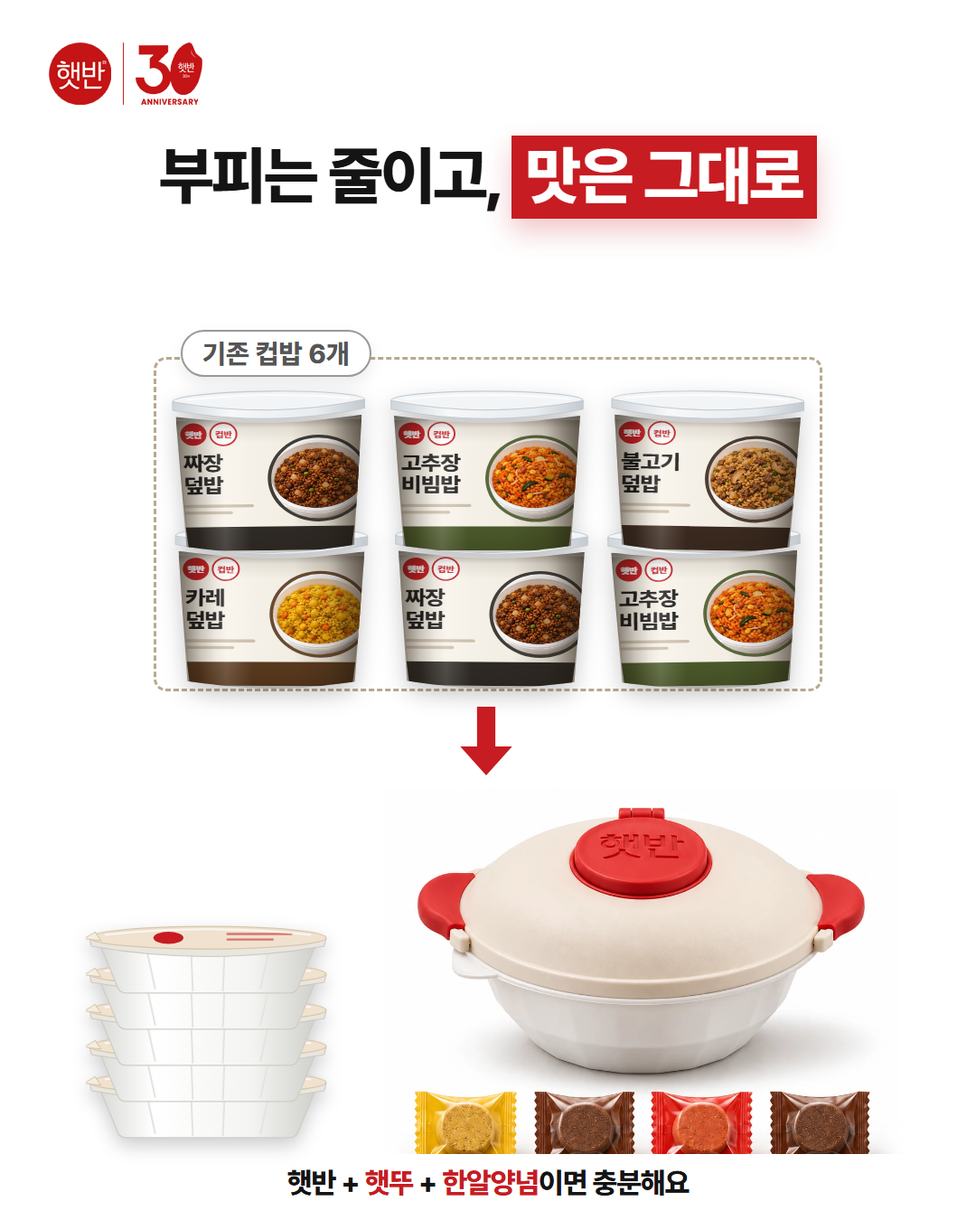
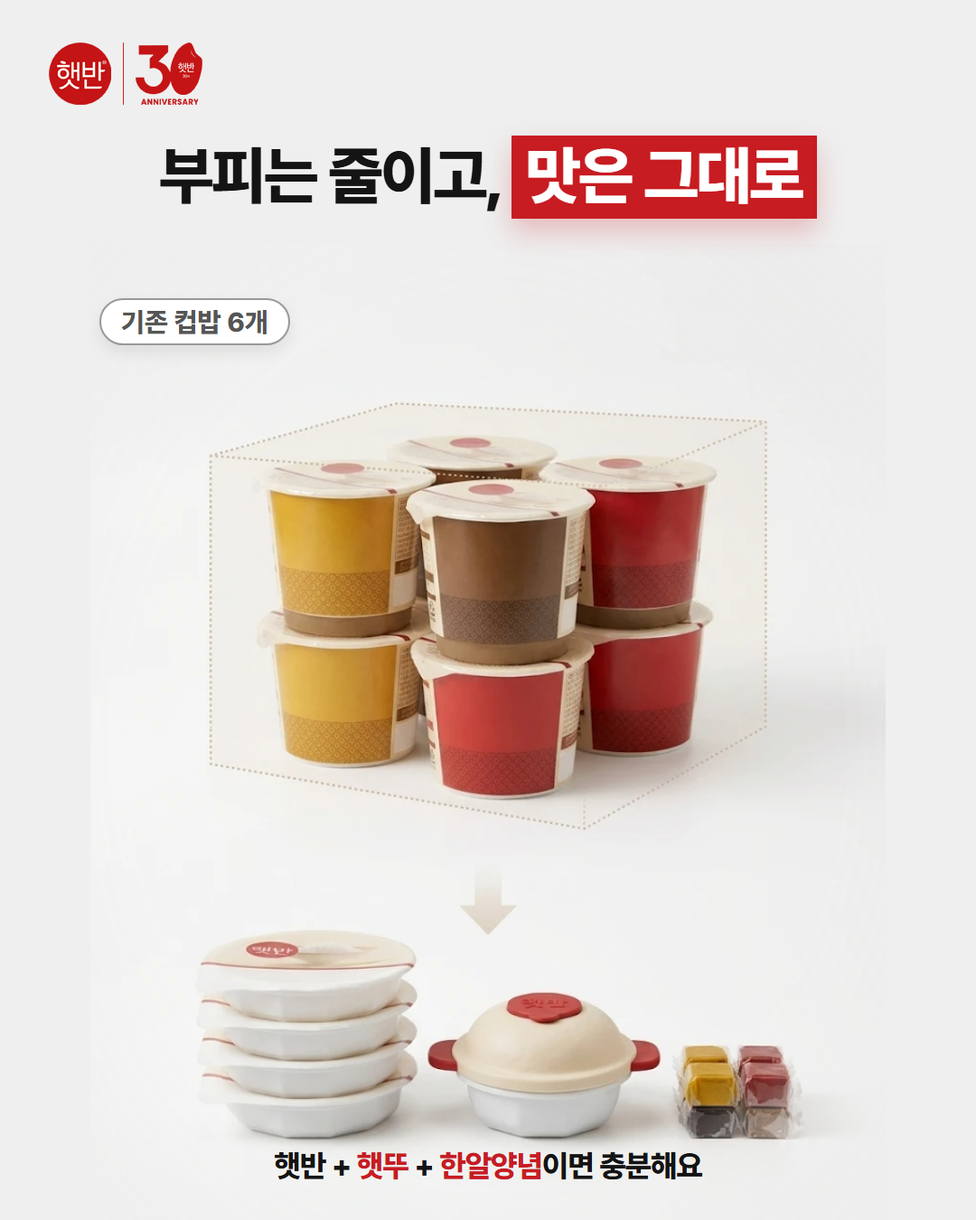
Auto-sync: 2026-11-13 22:43:28

diff --git a/햇반공모전/캐러셀_슬라이드.html b/햇반공모전/캐러셀_슬라이드.html
@@ -188,20 +188,14 @@ body{background:#ddd;font-family:Pretendard,"Malgun Gothic",sans-serif;color:var
 </section>
 
 <!-- 09 부피 -->
-<section class="slide" id="s09" style="background:#fff">
+<section class="slide" id="s09" style="background:#efefef">
+  <img src="출품1_이미지/P7.webp" style="position:absolute;left:100px;top:270px;width:880px;-webkit-mask-image:radial-gradient(ellipse 72% 72% at 50% 50%,#000 62%,transparent 100%);mask-image:radial-gradient(ellipse 72% 72% at 50% 50%,#000 62%,transparent 100%)">
   <div class="logo"><img src="참고이미지/햇반30로고.png"></div>
   <div class="center" style="top:150px">
     <div class="h-bold" style="font-size:70px">부피는 줄이고, <span class="box" style="font-size:70px;padding:2px 16px 6px">맛은 그대로</span></div>
   </div>
-  <div class="pill" style="left:200px;top:365px;color:#555;border-color:#999;z-index:2">기존 컵밥 6개</div>
-  <div style="position:absolute;left:170px;top:395px;width:740px;height:370px;border:3px dashed #b9a98f;border-radius:14px"></div>
-  <div style="position:absolute;inset:0;filter:drop-shadow(0 10px 12px rgba(0,0,0,.22))"><div style="position:absolute;left:0;top:0;transform:rotate(0.2deg);transform-origin:300px 742px"><svg style="position:absolute;left:191px;top:580px;width:218px;height:38px" viewBox="0 0 240 40" preserveAspectRatio="none"><defs><linearGradient id="lr9" x1="0" x2="1"><stop offset="0" stop-color="#cfd5da"/><stop offset=".3" stop-color="#f6f8f9"/><stop offset=".75" stop-color="#e8ecef"/><stop offset="1" stop-color="#c3cad0"/></linearGradient></defs><ellipse cx="120" cy="14" rx="117" ry="11" fill="rgba(242,245,247,.96)" stroke="#c4ccd2" stroke-width="1.2"/><path d="M3 14 Q120 36 237 14 L237 24 Q120 46 3 24 Z" fill="url(#lr9)" stroke="#bfc7cd" stroke-width="1"/><path d="M20 12 Q120 3 220 12" fill="none" stroke="#fff" stroke-width="2" opacity=".8"/></svg><div style="position:absolute;left:197px;top:610px;width:206px;height:152px;clip-path:polygon(0.0% 0.0px,5.0% 1.3px,10.0% 2.5px,15.0% 3.6px,20.0% 4.7px,25.0% 5.7px,30.0% 6.5px,35.0% 7.1px,40.0% 7.6px,45.0% 7.9px,50.0% 8.0px,55.0% 7.9px,60.0% 7.6px,65.0% 7.1px,70.0% 6.5px,75.0% 5.7px,80.0% 4.7px,85.0% 3.6px,90.0% 2.5px,95.0% 1.3px,100.0% 0.0px,95.0% 144.0px,90.5% 145.3px,86.0% 146.5px,81.5% 147.6px,77.0% 148.7px,72.5% 149.7px,68.0% 150.5px,63.5% 151.1px,59.0% 151.6px,54.5% 151.9px,50.0% 152.0px,45.5% 151.9px,41.0% 151.6px,36.5% 151.1px,32.0% 150.5px,27.5% 149.7px,23.0% 148.7px,18.5% 147.6px,14.0% 146.5px,9.5% 145.3px,5.0% 144.0px)"><div style="position:absolute;left:0;top:4.8px;width:100%;height:144px"><svg style="position:absolute;inset:0;width:100%;height:100%" viewBox="14 44 212 174" preserveAspectRatio="none"><defs><clipPath id="n9_1_k2013"><circle cx="176" cy="122" r="54"/></clipPath><linearGradient id="n9_1_gk2013" x1="0" x2="1"><stop offset="0" stop-color="#e3dbcc"/><stop offset=".22" stop-color="#f8f4ec"/><stop offset=".78" stop-color="#f1ebe0"/><stop offset="1" stop-color="#d6ccbb"/></linearGradient><linearGradient id="n9_1_sk2013" x1="0" x2="1"><stop offset="0" stop-color="rgba(0,0,0,.18)"/><stop offset=".2" stop-color="rgba(0,0,0,0)"/><stop offset=".8" stop-color="rgba(0,0,0,0)"/><stop offset="1" stop-color="rgba(0,0,0,.22)"/></linearGradient></defs><path d="M12 38 L228 38 L213 212 Q212 218 205 218 L35 218 Q28 218 27 212 Z" fill="url(#n9_1_gk2013)" stroke="#cfc3ae" stroke-width="1.5"/><path d="M24 186 L216 186 L213 212 Q212 218 205 218 L35 218 Q28 218 27 212 Z" fill="#5a3a1e"/><circle cx="176" cy="122" r="58" fill="#5a3a1e" opacity=".9"/><image href="출품1_이미지/P6.webp" x="101.9" y="-82.0" width="336.6" height="420.6" clip-path="url(#n9_1_k2013)"/><circle cx="34" cy="62" r="15" fill="#c71c22"/><text x="34" y="66.5" text-anchor="middle" font-size="11" font-weight="800" fill="#fff">햇반</text><circle cx="68" cy="62" r="15" fill="#fff" stroke="#c71c22" stroke-width="2"/><text x="68" y="66.5" text-anchor="middle" font-size="11" font-weight="800" fill="#c71c22">컵반</text><text x="22" y="110" font-size="27" font-weight="800" fill="#1d1d1d" letter-spacing="-1">카레</text><text x="22" y="140" font-size="27" font-weight="800" fill="#1d1d1d" letter-spacing="-1">덮밥</text><rect x="22" y="156" width="80" height="4" rx="2" fill="#cbbfab"/><rect x="22" y="165" width="56" height="4" rx="2" fill="#cbbfab"/><path d="M12 38 L228 38 L213 212 Q212 218 205 218 L35 218 Q28 218 27 212 Z" fill="url(#n9_1_sk2013)"/></svg></div><div style="position:absolute;inset:0;background:linear-gradient(90deg,rgba(35,25,15,.45) 0,rgba(35,25,15,.12) 12%,rgba(255,252,245,.18) 26%,rgba(255,252,245,0) 40%,rgba(35,25,15,0) 62%,rgba(35,25,15,.18) 84%,rgba(35,25,15,.5) 100%)"></div><div style="position:absolute;inset:0;background:linear-gradient(180deg,rgba(30,20,10,.4) 0,rgba(30,20,10,.08) 9%,rgba(0,0,0,0) 20%,rgba(0,0,0,0) 80%,rgba(30,20,10,.2) 100%)"></div></div></div><div style="position:absolute;left:0;top:0;transform:rotate(-0.7deg);transform-origin:299px 592px"><svg style="position:absolute;left:190px;top:430px;width:218px;height:38px" viewBox="0 0 240 40" preserveAspectRatio="none"><defs><linearGradient id="lr9" x1="0" x2="1"><stop offset="0" stop-color="#cfd5da"/><stop offset=".3" stop-color="#f6f8f9"/><stop offset=".75" stop-color="#e8ecef"/><stop offset="1" stop-color="#c3cad0"/></linearGradient></defs><ellipse cx="120" cy="14" rx="117" ry="11" fill="rgba(242,245,247,.96)" stroke="#c4ccd2" stroke-width="1.2"/><path d="M3 14 Q120 36 237 14 L237 24 Q120 46 3 24 Z" fill="url(#lr9)" stroke="#bfc7cd" stroke-width="1"/><path d="M20 12 Q120 3 220 12" fill="none" stroke="#fff" stroke-width="2" opacity=".8"/></svg><div style="position:absolute;left:196px;top:460px;width:206px;height:152px;clip-path:polygon(0.0% 0.0px,5.0% 1.3px,10.0% 2.5px,15.0% 3.6px,20.0% 4.7px,25.0% 5.7px,30.0% 6.5px,35.0% 7.1px,40.0% 7.6px,45.0% 7.9px,50.0% 8.0px,55.0% 7.9px,60.0% 7.6px,65.0% 7.1px,70.0% 6.5px,75.0% 5.7px,80.0% 4.7px,85.0% 3.6px,90.0% 2.5px,95.0% 1.3px,100.0% 0.0px,95.0% 144.0px,90.5% 145.3px,86.0% 146.5px,81.5% 147.6px,77.0% 148.7px,72.5% 149.7px,68.0% 150.5px,63.5% 151.1px,59.0% 151.6px,54.5% 151.9px,50.0% 152.0px,45.5% 151.9px,41.0% 151.6px,36.5% 151.1px,32.0% 150.5px,27.5% 149.7px,23.0% 148.7px,18.5% 147.6px,14.0% 146.5px,9.5% 145.3px,5.0% 144.0px)"><div style="position:absolute;left:0;top:4.8px;width:100%;height:144px"><svg style="position:absolute;inset:0;width:100%;height:100%" viewBox="14 44 212 174" preserveAspectRatio="none"><defs><clipPath id="n9_2_k2042"><circle cx="176" cy="122" r="54"/></clipPath><linearGradient id="n9_2_gk2042" x1="0" x2="1"><stop offset="0" stop-color="#e3dbcc"/><stop offset=".22" stop-color="#f8f4ec"/><stop offset=".78" stop-color="#f1ebe0"/><stop offset="1" stop-color="#d6ccbb"/></linearGradient><linearGradient id="n9_2_sk2042" x1="0" x2="1"><stop offset="0" stop-color="rgba(0,0,0,.18)"/><stop offset=".2" stop-color="rgba(0,0,0,0)"/><stop offset=".8" stop-color="rgba(0,0,0,0)"/><stop offset="1" stop-color="rgba(0,0,0,.22)"/></linearGradient></defs><path d="M12 38 L228 38 L213 212 Q212 218 205 218 L35 218 Q28 218 27 212 Z" fill="url(#n9_2_gk2042)" stroke="#cfc3ae" stroke-width="1.5"/><path d="M24 186 L216 186 L213 212 Q212 218 205 218 L35 218 Q28 218 27 212 Z" fill="#2e2a26"/><circle cx="176" cy="122" r="58" fill="#2e2a26" opacity=".9"/><image href="출품1_이미지/P6.webp" x="-51.4" y="-82.0" width="336.6" height="420.6" clip-path="url(#n9_2_k2042)"/><circle cx="34" cy="62" r="15" fill="#c71c22"/><text x="34" y="66.5" text-anchor="middle" font-size="11" font-weight="800" fill="#fff">햇반</text><circle cx="68" cy="62" r="15" fill="#fff" stroke="#c71c22" stroke-width="2"/><text x="68" y="66.5" text-anchor="middle" font-size="11" font-weight="800" fill="#c71c22">컵반</text><text x="22" y="110" font-size="27" font-weight="800" fill="#1d1d1d" letter-spacing="-1">짜장</text><text x="22" y="140" font-size="27" font-weight="800" fill="#1d1d1d" letter-spacing="-1">덮밥</text><rect x="22" y="156" width="80" height="4" rx="2" fill="#cbbfab"/><rect x="22" y="165" width="56" height="4" rx="2" fill="#cbbfab"/><path d="M12 38 L228 38 L213 212 Q212 218 205 218 L35 218 Q28 218 27 212 Z" fill="url(#n9_2_sk2042)"/></svg></div><div style="position:absolute;inset:0;background:linear-gradient(90deg,rgba(35,25,15,.45) 0,rgba(35,25,15,.12) 12%,rgba(255,252,245,.18) 26%,rgba(255,252,245,0) 40%,rgba(35,25,15,0) 62%,rgba(35,25,15,.18) 84%,rgba(35,25,15,.5) 100%)"></div><div style="position:absolute;inset:0;background:linear-gradient(180deg,rgba(30,20,10,.4) 0,rgba(30,20,10,.08) 9%,rgba(0,0,0,0) 20%,rgba(0,0,0,0) 80%,rgba(30,20,10,.2) 100%)"></div></div></div><div style="position:absolute;left:0;top:0;transform:rotate(0.4deg);transform-origin:543px 742px"><svg style="position:absolute;left:434px;top:580px;width:218px;height:38px" viewBox="0 0 240 40" preserveAspectRatio="none"><defs><linearGradient id="lr9" x1="0" x2="1"><stop offset="0" stop-color="#cfd5da"/><stop offset=".3" stop-color="#f6f8f9"/><stop offset=".75" stop-color="#e8ecef"/><stop offset="1" stop-color="#c3cad0"/></linearGradient></defs><ellipse cx="120" cy="14" rx="117" ry="11" fill="rgba(242,245,247,.96)" stroke="#c4ccd2" stroke-width="1.2"/><path d="M3 14 Q120 36 237 14 L237 24 Q120 46 3 24 Z" fill="url(#lr9)" stroke="#bfc7cd" stroke-width="1"/><path d="M20 12 Q120 3 220 12" fill="none" stroke="#fff" stroke-width="2" opacity=".8"/></svg><div style="position:absolute;left:440px;top:610px;width:206px;height:152px;clip-path:polygon(0.0% 0.0px,5.0% 1.3px,10.0% 2.5px,15.0% 3.6px,20.0% 4.7px,25.0% 5.7px,30.0% 6.5px,35.0% 7.1px,40.0% 7.6px,45.0% 7.9px,50.0% 8.0px,55.0% 7.9px,60.0% 7.6px,65.0% 7.1px,70.0% 6.5px,75.0% 5.7px,80.0% 4.7px,85.0% 3.6px,90.0% 2.5px,95.0% 1.3px,100.0% 0.0px,95.0% 144.0px,90.5% 145.3px,86.0% 146.5px,81.5% 147.6px,77.0% 148.7px,72.5% 149.7px,68.0% 150.5px,63.5% 151.1px,59.0% 151.6px,54.5% 151.9px,50.0% 152.0px,45.5% 151.9px,41.0% 151.6px,36.5% 151.1px,32.0% 150.5px,27.5% 149.7px,23.0% 148.7px,18.5% 147.6px,14.0% 146.5px,9.5% 145.3px,5.0% 144.0px)"><div style="position:absolute;left:0;top:4.8px;width:100%;height:144px"><svg style="position:absolute;inset:0;width:100%;height:100%" viewBox="14 44 212 174" preserveAspectRatio="none"><defs><clipPath id="n9_3_k2042"><circle cx="176" cy="122" r="54"/></clipPath><linearGradient id="n9_3_gk2042" x1="0" x2="1"><stop offset="0" stop-color="#e3dbcc"/><stop offset=".22" stop-color="#f8f4ec"/><stop offset=".78" stop-color="#f1ebe0"/><stop offset="1" stop-color="#d6ccbb"/></linearGradient><linearGradient id="n9_3_sk2042" x1="0" x2="1"><stop offset="0" stop-color="rgba(0,0,0,.18)"/><stop offset=".2" stop-color="rgba(0,0,0,0)"/><stop offset=".8" stop-color="rgba(0,0,0,0)"/><stop offset="1" stop-color="rgba(0,0,0,.22)"/></linearGradient></defs><path d="M12 38 L228 38 L213 212 Q212 218 205 218 L35 218 Q28 218 27 212 Z" fill="url(#n9_3_gk2042)" stroke="#cfc3ae" stroke-width="1.5"/><path d="M24 186 L216 186 L213 212 Q212 218 205 218 L35 218 Q28 218 27 212 Z" fill="#2e2a26"/><circle cx="176" cy="122" r="58" fill="#2e2a26" opacity=".9"/><image href="출품1_이미지/P6.webp" x="-51.4" y="-82.0" width="336.6" height="420.6" clip-path="url(#n9_3_k2042)"/><circle cx="34" cy="62" r="15" fill="#c71c22"/><text x="34" y="66.5" text-anchor="middle" font-size="11" font-weight="800" fill="#fff">햇반</text><circle cx="68" cy="62" r="15" fill="#fff" stroke="#c71c22" stroke-width="2"/><text x="68" y="66.5" text-anchor="middle" font-size="11" font-weight="800" fill="#c71c22">컵반</text><text x="22" y="110" font-size="27" font-weight="800" fill="#1d1d1d" letter-spacing="-1">짜장</text><text x="22" y="140" font-size="27" font-weight="800" fill="#1d1d1d" letter-spacing="-1">덮밥</text><rect x="22" y="156" width="80" height="4" rx="2" fill="#cbbfab"/><rect x="22" y="165" width="56" height="4" rx="2" fill="#cbbfab"/><path d="M12 38 L228 38 L213 212 Q212 218 205 218 L35 218 Q28 218 27 212 Z" fill="url(#n9_3_sk2042)"/></svg></div><div style="position:absolute;inset:0;background:linear-gradient(90deg,rgba(35,25,15,.45) 0,rgba(35,25,15,.12) 12%,rgba(255,252,245,.18) 26%,rgba(255,252,245,0) 40%,rgba(35,25,15,0) 62%,rgba(35,25,15,.18) 84%,rgba(35,25,15,.5) 100%)"></div><div style="position:absolute;inset:0;background:linear-gradient(180deg,rgba(30,20,10,.4) 0,rgba(30,20,10,.08) 9%,rgba(0,0,0,0) 20%,rgba(0,0,0,0) 80%,rgba(30,20,10,.2) 100%)"></div></div></div><div style="position:absolute;left:0;top:0;transform:rotate(0.0deg);transform-origin:539px 592px"><svg style="position:absolute;left:430px;top:430px;width:218px;height:38px" viewBox="0 0 240 40" preserveAspectRatio="none"><defs><linearGradient id="lr9" x1="0" x2="1"><stop offset="0" stop-color="#cfd5da"/><stop offset=".3" stop-color="#f6f8f9"/><stop offset=".75" stop-color="#e8ecef"/><stop offset="1" stop-color="#c3cad0"/></linearGradient></defs><ellipse cx="120" cy="14" rx="117" ry="11" fill="rgba(242,245,247,.96)" stroke="#c4ccd2" stroke-width="1.2"/><path d="M3 14 Q120 36 237 14 L237 24 Q120 46 3 24 Z" fill="url(#lr9)" stroke="#bfc7cd" stroke-width="1"/><path d="M20 12 Q120 3 220 12" fill="none" stroke="#fff" stroke-width="2" opacity=".8"/></svg><div style="position:absolute;left:436px;top:460px;width:206px;height:152px;clip-path:polygon(0.0% 0.0px,5.0% 1.3px,10.0% 2.5px,15.0% 3.6px,20.0% 4.7px,25.0% 5.7px,30.0% 6.5px,35.0% 7.1px,40.0% 7.6px,45.0% 7.9px,50.0% 8.0px,55.0% 7.9px,60.0% 7.6px,65.0% 7.1px,70.0% 6.5px,75.0% 5.7px,80.0% 4.7px,85.0% 3.6px,90.0% 2.5px,95.0% 1.3px,100.0% 0.0px,95.0% 144.0px,90.5% 145.3px,86.0% 146.5px,81.5% 147.6px,77.0% 148.7px,72.5% 149.7px,68.0% 150.5px,63.5% 151.1px,59.0% 151.6px,54.5% 151.9px,50.0% 152.0px,45.5% 151.9px,41.0% 151.6px,36.5% 151.1px,32.0% 150.5px,27.5% 149.7px,23.0% 148.7px,18.5% 147.6px,14.0% 146.5px,9.5% 145.3px,5.0% 144.0px)"><div style="position:absolute;left:0;top:4.8px;width:100%;height:144px"><svg style="position:absolute;inset:0;width:100%;height:100%" viewBox="14 44 212 174" preserveAspectRatio="none"><defs><clipPath id="n9_4_k2003"><circle cx="176" cy="122" r="54"/></clipPath><linearGradient id="n9_4_gk2003" x1="0" x2="1"><stop offset="0" stop-color="#e3dbcc"/><stop offset=".22" stop-color="#f8f4ec"/><stop offset=".78" stop-color="#f1ebe0"/><stop offset="1" stop-color="#d6ccbb"/></linearGradient><linearGradient id="n9_4_sk2003" x1="0" x2="1"><stop offset="0" stop-color="rgba(0,0,0,.18)"/><stop offset=".2" stop-color="rgba(0,0,0,0)"/><stop offset=".8" stop-color="rgba(0,0,0,0)"/><stop offset="1" stop-color="rgba(0,0,0,.22)"/></linearGradient></defs><path d="M12 38 L228 38 L213 212 Q212 218 205 218 L35 218 Q28 218 27 212 Z" fill="url(#n9_4_gk2003)" stroke="#cfc3ae" stroke-width="1.5"/><path d="M24 186 L216 186 L213 212 Q212 218 205 218 L35 218 Q28 218 27 212 Z" fill="#4a5a2a"/><circle cx="176" cy="122" r="58" fill="#4a5a2a" opacity=".9"/><image href="출품1_이미지/P6.webp" x="101.9" y="-204.4" width="336.6" height="420.6" clip-path="url(#n9_4_k2003)"/><circle cx="34" cy="62" r="15" fill="#c71c22"/><text x="34" y="66.5" text-anchor="middle" font-size="11" font-weight="800" fill="#fff">햇반</text><circle cx="68" cy="62" r="15" fill="#fff" stroke="#c71c22" stroke-width="2"/><text x="68" y="66.5" text-anchor="middle" font-size="11" font-weight="800" fill="#c71c22">컵반</text><text x="22" y="110" font-size="27" font-weight="800" fill="#1d1d1d" letter-spacing="-1">고추장</text><text x="22" y="140" font-size="27" font-weight="800" fill="#1d1d1d" letter-spacing="-1">비빔밥</text><rect x="22" y="156" width="80" height="4" rx="2" fill="#cbbfab"/><rect x="22" y="165" width="56" height="4" rx="2" fill="#cbbfab"/><path d="M12 38 L228 38 L213 212 Q212 218 205 218 L35 218 Q28 218 27 212 Z" fill="url(#n9_4_sk2003)"/></svg></div><div style="position:absolute;inset:0;background:linear-gradient(90deg,rgba(35,25,15,.45) 0,rgba(35,25,15,.12) 12%,rgba(255,252,245,.18) 26%,rgba(255,252,245,0) 40%,rgba(35,25,15,0) 62%,rgba(35,25,15,.18) 84%,rgba(35,25,15,.5) 100%)"></div><div style="position:absolute;inset:0;background:linear-gradient(180deg,rgba(30,20,10,.4) 0,rgba(30,20,10,.08) 9%,rgba(0,0,0,0) 20%,rgba(0,0,0,0) 80%,rgba(30,20,10,.2) 100%)"></div></div></div><div style="position:absolute;left:0;top:0;transform:rotate(-0.8deg);transform-origin:781px 742px"><svg style="position:absolute;left:672px;top:580px;width:218px;height:38px" viewBox="0 0 240 40" preserveAspectRatio="none"><defs><linearGradient id="lr9" x1="0" x2="1"><stop offset="0" stop-color="#cfd5da"/><stop offset=".3" stop-color="#f6f8f9"/><stop offset=".75" stop-color="#e8ecef"/><stop offset="1" stop-color="#c3cad0"/></linearGradient></defs><ellipse cx="120" cy="14" rx="117" ry="11" fill="rgba(242,245,247,.96)" stroke="#c4ccd2" stroke-width="1.2"/><path d="M3 14 Q120 36 237 14 L237 24 Q120 46 3 24 Z" fill="url(#lr9)" stroke="#bfc7cd" stroke-width="1"/><path d="M20 12 Q120 3 220 12" fill="none" stroke="#fff" stroke-width="2" opacity=".8"/></svg><div style="position:absolute;left:678px;top:610px;width:206px;height:152px;clip-path:polygon(0.0% 0.0px,5.0% 1.3px,10.0% 2.5px,15.0% 3.6px,20.0% 4.7px,25.0% 5.7px,30.0% 6.5px,35.0% 7.1px,40.0% 7.6px,45.0% 7.9px,50.0% 8.0px,55.0% 7.9px,60.0% 7.6px,65.0% 7.1px,70.0% 6.5px,75.0% 5.7px,80.0% 4.7px,85.0% 3.6px,90.0% 2.5px,95.0% 1.3px,100.0% 0.0px,95.0% 144.0px,90.5% 145.3px,86.0% 146.5px,81.5% 147.6px,77.0% 148.7px,72.5% 149.7px,68.0% 150.5px,63.5% 151.1px,59.0% 151.6px,54.5% 151.9px,50.0% 152.0px,45.5% 151.9px,41.0% 151.6px,36.5% 151.1px,32.0% 150.5px,27.5% 149.7px,23.0% 148.7px,18.5% 147.6px,14.0% 146.5px,9.5% 145.3px,5.0% 144.0px)"><div style="position:absolute;left:0;top:4.8px;width:100%;height:144px"><svg style="position:absolute;inset:0;width:100%;height:100%" viewBox="14 44 212 174" preserveAspectRatio="none"><defs><clipPath id="n9_5_k2003"><circle cx="176" cy="122" r="54"/></clipPath><linearGradient id="n9_5_gk2003" x1="0" x2="1"><stop offset="0" stop-color="#e3dbcc"/><stop offset=".22" stop-color="#f8f4ec"/><stop offset=".78" stop-color="#f1ebe0"/><stop offset="1" stop-color="#d6ccbb"/></linearGradient><linearGradient id="n9_5_sk2003" x1="0" x2="1"><stop offset="0" stop-color="rgba(0,0,0,.18)"/><stop offset=".2" stop-color="rgba(0,0,0,0)"/><stop offset=".8" stop-color="rgba(0,0,0,0)"/><stop offset="1" stop-color="rgba(0,0,0,.22)"/></linearGradient></defs><path d="M12 38 L228 38 L213 212 Q212 218 205 218 L35 218 Q28 218 27 212 Z" fill="url(#n9_5_gk2003)" stroke="#cfc3ae" stroke-width="1.5"/><path d="M24 186 L216 186 L213 212 Q212 218 205 218 L35 218 Q28 218 27 212 Z" fill="#4a5a2a"/><circle cx="176" cy="122" r="58" fill="#4a5a2a" opacity=".9"/><image href="출품1_이미지/P6.webp" x="101.9" y="-204.4" width="336.6" height="420.6" clip-path="url(#n9_5_k2003)"/><circle cx="34" cy="62" r="15" fill="#c71c22"/><text x="34" y="66.5" text-anchor="middle" font-size="11" font-weight="800" fill="#fff">햇반</text><circle cx="68" cy="62" r="15" fill="#fff" stroke="#c71c22" stroke-width="2"/><text x="68" y="66.5" text-anchor="middle" font-size="11" font-weight="800" fill="#c71c22">컵반</text><text x="22" y="110" font-size="27" font-weight="800" fill="#1d1d1d" letter-spacing="-1">고추장</text><text x="22" y="140" font-size="27" font-weight="800" fill="#1d1d1d" letter-spacing="-1">비빔밥</text><rect x="22" y="156" width="80" height="4" rx="2" fill="#cbbfab"/><rect x="22" y="165" width="56" height="4" rx="2" fill="#cbbfab"/><path d="M12 38 L228 38 L213 212 Q212 218 205 218 L35 218 Q28 218 27 212 Z" fill="url(#n9_5_sk2003)"/></svg></div><div style="position:absolute;inset:0;background:linear-gradient(90deg,rgba(35,25,15,.45) 0,rgba(35,25,15,.12) 12%,rgba(255,252,245,.18) 26%,rgba(255,252,245,0) 40%,rgba(35,25,15,0) 62%,rgba(35,25,15,.18) 84%,rgba(35,25,15,.5) 100%)"></div><div style="position:absolute;inset:0;background:linear-gradient(180deg,rgba(30,20,10,.4) 0,rgba(30,20,10,.08) 9%,rgba(0,0,0,0) 20%,rgba(0,0,0,0) 80%,rgba(30,20,10,.2) 100%)"></div></div></div><div style="position:absolute;left:0;top:0;transform:rotate(0.9deg);transform-origin:781px 592px"><svg style="position:absolute;left:672px;top:430px;width:218px;height:38px" viewBox="0 0 240 40" preserveAspectRatio="none"><defs><linearGradient id="lr9" x1="0" x2="1"><stop offset="0" stop-color="#cfd5da"/><stop offset=".3" stop-color="#f6f8f9"/><stop offset=".75" stop-color="#e8ecef"/><stop offset="1" stop-color="#c3cad0"/></linearGradient></defs><ellipse cx="120" cy="14" rx="117" ry="11" fill="rgba(242,245,247,.96)" stroke="#c4ccd2" stroke-width="1.2"/><path d="M3 14 Q120 36 237 14 L237 24 Q120 46 3 24 Z" fill="url(#lr9)" stroke="#bfc7cd" stroke-width="1"/><path d="M20 12 Q120 3 220 12" fill="none" stroke="#fff" stroke-width="2" opacity=".8"/></svg><div style="position:absolute;left:678px;top:460px;width:206px;height:152px;clip-path:polygon(0.0% 0.0px,5.0% 1.3px,10.0% 2.5px,15.0% 3.6px,20.0% 4.7px,25.0% 5.7px,30.0% 6.5px,35.0% 7.1px,40.0% 7.6px,45.0% 7.9px,50.0% 8.0px,55.0% 7.9px,60.0% 7.6px,65.0% 7.1px,70.0% 6.5px,75.0% 5.7px,80.0% 4.7px,85.0% 3.6px,90.0% 2.5px,95.0% 1.3px,100.0% 0.0px,95.0% 144.0px,90.5% 145.3px,86.0% 146.5px,81.5% 147.6px,77.0% 148.7px,72.5% 149.7px,68.0% 150.5px,63.5% 151.1px,59.0% 151.6px,54.5% 151.9px,50.0% 152.0px,45.5% 151.9px,41.0% 151.6px,36.5% 151.1px,32.0% 150.5px,27.5% 149.7px,23.0% 148.7px,18.5% 147.6px,14.0% 146.5px,9.5% 145.3px,5.0% 144.0px)"><div style="position:absolute;left:0;top:4.8px;width:100%;height:144px"><svg style="position:absolute;inset:0;width:100%;height:100%" viewBox="14 44 212 174" preserveAspectRatio="none"><defs><clipPath id="n9_6_k2040"><circle cx="176" cy="122" r="54"/></clipPath><linearGradient id="n9_6_gk2040" x1="0" x2="1"><stop offset="0" stop-color="#e3dbcc"/><stop offset=".22" stop-color="#f8f4ec"/><stop offset=".78" stop-color="#f1ebe0"/><stop offset="1" stop-color="#d6ccbb"/></linearGradient><linearGradient id="n9_6_sk2040" x1="0" x2="1"><stop offset="0" stop-color="rgba(0,0,0,.18)"/><stop offset=".2" stop-color="rgba(0,0,0,0)"/><stop offset=".8" stop-color="rgba(0,0,0,0)"/><stop offset="1" stop-color="rgba(0,0,0,.22)"/></linearGradient></defs><path d="M12 38 L228 38 L213 212 Q212 218 205 218 L35 218 Q28 218 27 212 Z" fill="url(#n9_6_gk2040)" stroke="#cfc3ae" stroke-width="1.5"/><path d="M24 186 L216 186 L213 212 Q212 218 205 218 L35 218 Q28 218 27 212 Z" fill="#3b2a20"/><circle cx="176" cy="122" r="58" fill="#3b2a20" opacity=".9"/><image href="출품1_이미지/P6.webp" x="-51.4" y="-204.4" width="336.6" height="420.6" clip-path="url(#n9_6_k2040)"/><circle cx="34" cy="62" r="15" fill="#c71c22"/><text x="34" y="66.5" text-anchor="middle" font-size="11" font-weight="800" fill="#fff">햇반</text><circle cx="68" cy="62" r="15" fill="#fff" stroke="#c71c22" stroke-width="2"/><text x="68" y="66.5" text-anchor="middle" font-size="11" font-weight="800" fill="#c71c22">컵반</text><text x="22" y="110" font-size="27" font-weight="800" fill="#1d1d1d" letter-spacing="-1">불고기</text><text x="22" y="140" font-size="27" font-weight="800" fill="#1d1d1d" letter-spacing="-1">덮밥</text><rect x="22" y="156" width="80" height="4" rx="2" fill="#cbbfab"/><rect x="22" y="165" width="56" height="4" rx="2" fill="#cbbfab"/><path d="M12 38 L228 38 L213 212 Q212 218 205 218 L35 218 Q28 218 27 212 Z" fill="url(#n9_6_sk2040)"/></svg></div><div style="position:absolute;inset:0;background:linear-gradient(90deg,rgba(35,25,15,.45) 0,rgba(35,25,15,.12) 12%,rgba(255,252,245,.18) 26%,rgba(255,252,245,0) 40%,rgba(35,25,15,0) 62%,rgba(35,25,15,.18) 84%,rgba(35,25,15,.5) 100%)"></div><div style="position:absolute;inset:0;background:linear-gradient(180deg,rgba(30,20,10,.4) 0,rgba(30,20,10,.08) 9%,rgba(0,0,0,0) 20%,rgba(0,0,0,0) 80%,rgba(30,20,10,.2) 100%)"></div></div></div></div>
-  <svg style="position:absolute;left:503px;top:782px;width:70px;height:76px" viewBox="0 0 80 90"><path d="M28 0 h24 v52 h22 l-34 38 l-34 -38 h22 z" fill="#c71c22"/></svg>
-  <div style="position:absolute;left:400px;top:872px;width:620px;height:405px;overflow:hidden;-webkit-mask-image:linear-gradient(90deg,transparent 0,#000 8%,#000 92%,transparent 100%)">
-    <img src="출품1_이미지/P3.webp" style="position:absolute;left:0;top:-292px;width:620px;mix-blend-mode:multiply">
-  </div>
-  <div style="position:absolute;inset:0;filter:drop-shadow(0 8px 10px rgba(0,0,0,.2))"><svg style="position:absolute;left:95px;top:1180px;width:270px;height:81px" viewBox="0 0 260 78"><defs><linearGradient id="tb" x1="0" x2="1"><stop offset="0" stop-color="#d9d9d6"/><stop offset=".25" stop-color="#ffffff"/><stop offset=".7" stop-color="#f4f4f2"/><stop offset="1" stop-color="#cfcfcb"/></linearGradient></defs><path d="M14 22 L246 22 L226 70 Q224 76 216 76 L44 76 Q36 76 34 70 Z" fill="url(#tb)" stroke="#cdcdc8" stroke-width="1.2"/><path d="M64 26 L74 72 M112 26 L114 74 M148 26 L146 74 M196 26 L186 72" stroke="#e4e4e0" stroke-width="2"/><path d="M4 18 Q130 40 256 18 L254 26 Q130 48 6 26 Z" fill="#e9e6df" stroke="#cdc8bc" stroke-width="1"/><ellipse cx="130" cy="17" rx="126" ry="12" fill="#f0e2cf" stroke="#d6c6aa" stroke-width="1.2"/><ellipse cx="88" cy="17" rx="16" ry="6.5" fill="#c71c22"/><path d="M150 13 h70 M150 19 h50" stroke="#c71c22" stroke-width="2.2" opacity=".55"/><path d="M-2 18 l12 -7 l6 9 Z" fill="#f4ede0" stroke="#d6c6aa" stroke-width="1"/><path d="M20 14 Q130 2 240 14" fill="none" stroke="#fff" stroke-width="2" opacity=".7"/></svg><svg style="position:absolute;left:95px;top:1140px;width:270px;height:81px" viewBox="0 0 260 78"><defs><linearGradient id="tb" x1="0" x2="1"><stop offset="0" stop-color="#d9d9d6"/><stop offset=".25" stop-color="#ffffff"/><stop offset=".7" stop-color="#f4f4f2"/><stop offset="1" stop-color="#cfcfcb"/></linearGradient></defs><path d="M14 22 L246 22 L226 70 Q224 76 216 76 L44 76 Q36 76 34 70 Z" fill="url(#tb)" stroke="#cdcdc8" stroke-width="1.2"/><path d="M64 26 L74 72 M112 26 L114 74 M148 26 L146 74 M196 26 L186 72" stroke="#e4e4e0" stroke-width="2"/><path d="M4 18 Q130 40 256 18 L254 26 Q130 48 6 26 Z" fill="#e9e6df" stroke="#cdc8bc" stroke-width="1"/><ellipse cx="130" cy="17" rx="126" ry="12" fill="#f0e2cf" stroke="#d6c6aa" stroke-width="1.2"/><ellipse cx="88" cy="17" rx="16" ry="6.5" fill="#c71c22"/><path d="M150 13 h70 M150 19 h50" stroke="#c71c22" stroke-width="2.2" opacity=".55"/><path d="M-2 18 l12 -7 l6 9 Z" fill="#f4ede0" stroke="#d6c6aa" stroke-width="1"/><path d="M20 14 Q130 2 240 14" fill="none" stroke="#fff" stroke-width="2" opacity=".7"/></svg><svg style="position:absolute;left:95px;top:1100px;width:270px;height:81px" viewBox="0 0 260 78"><defs><linearGradient id="tb" x1="0" x2="1"><stop offset="0" stop-color="#d9d9d6"/><stop offset=".25" stop-color="#ffffff"/><stop offset=".7" stop-color="#f4f4f2"/><stop offset="1" stop-color="#cfcfcb"/></linearGradient></defs><path d="M14 22 L246 22 L226 70 Q224 76 216 76 L44 76 Q36 76 34 70 Z" fill="url(#tb)" stroke="#cdcdc8" stroke-width="1.2"/><path d="M64 26 L74 72 M112 26 L114 74 M148 26 L146 74 M196 26 L186 72" stroke="#e4e4e0" stroke-width="2"/><path d="M4 18 Q130 40 256 18 L254 26 Q130 48 6 26 Z" fill="#e9e6df" stroke="#cdc8bc" stroke-width="1"/><ellipse cx="130" cy="17" rx="126" ry="12" fill="#f0e2cf" stroke="#d6c6aa" stroke-width="1.2"/><ellipse cx="88" cy="17" rx="16" ry="6.5" fill="#c71c22"/><path d="M150 13 h70 M150 19 h50" stroke="#c71c22" stroke-width="2.2" opacity=".55"/><path d="M-2 18 l12 -7 l6 9 Z" fill="#f4ede0" stroke="#d6c6aa" stroke-width="1"/><path d="M20 14 Q130 2 240 14" fill="none" stroke="#fff" stroke-width="2" opacity=".7"/></svg><svg style="position:absolute;left:95px;top:1060px;width:270px;height:81px" viewBox="0 0 260 78"><defs><linearGradient id="tb" x1="0" x2="1"><stop offset="0" stop-color="#d9d9d6"/><stop offset=".25" stop-color="#ffffff"/><stop offset=".7" stop-color="#f4f4f2"/><stop offset="1" stop-color="#cfcfcb"/></linearGradient></defs><path d="M14 22 L246 22 L226 70 Q224 76 216 76 L44 76 Q36 76 34 70 Z" fill="url(#tb)" stroke="#cdcdc8" stroke-width="1.2"/><path d="M64 26 L74 72 M112 26 L114 74 M148 26 L146 74 M196 26 L186 72" stroke="#e4e4e0" stroke-width="2"/><path d="M4 18 Q130 40 256 18 L254 26 Q130 48 6 26 Z" fill="#e9e6df" stroke="#cdc8bc" stroke-width="1"/><ellipse cx="130" cy="17" rx="126" ry="12" fill="#f0e2cf" stroke="#d6c6aa" stroke-width="1.2"/><ellipse cx="88" cy="17" rx="16" ry="6.5" fill="#c71c22"/><path d="M150 13 h70 M150 19 h50" stroke="#c71c22" stroke-width="2.2" opacity=".55"/><path d="M-2 18 l12 -7 l6 9 Z" fill="#f4ede0" stroke="#d6c6aa" stroke-width="1"/><path d="M20 14 Q130 2 240 14" fill="none" stroke="#fff" stroke-width="2" opacity=".7"/></svg><svg style="position:absolute;left:95px;top:1020px;width:270px;height:81px" viewBox="0 0 260 78"><defs><linearGradient id="tb" x1="0" x2="1"><stop offset="0" stop-color="#d9d9d6"/><stop offset=".25" stop-color="#ffffff"/><stop offset=".7" stop-color="#f4f4f2"/><stop offset="1" stop-color="#cfcfcb"/></linearGradient></defs><path d="M14 22 L246 22 L226 70 Q224 76 216 76 L44 76 Q36 76 34 70 Z" fill="url(#tb)" stroke="#cdcdc8" stroke-width="1.2"/><path d="M64 26 L74 72 M112 26 L114 74 M148 26 L146 74 M196 26 L186 72" stroke="#e4e4e0" stroke-width="2"/><path d="M4 18 Q130 40 256 18 L254 26 Q130 48 6 26 Z" fill="#e9e6df" stroke="#cdc8bc" stroke-width="1"/><ellipse cx="130" cy="17" rx="126" ry="12" fill="#f0e2cf" stroke="#d6c6aa" stroke-width="1.2"/><ellipse cx="88" cy="17" rx="16" ry="6.5" fill="#c71c22"/><path d="M150 13 h70 M150 19 h50" stroke="#c71c22" stroke-width="2.2" opacity=".55"/><path d="M-2 18 l12 -7 l6 9 Z" fill="#f4ede0" stroke="#d6c6aa" stroke-width="1"/><path d="M20 14 Q130 2 240 14" fill="none" stroke="#fff" stroke-width="2" opacity=".7"/></svg></div>
-  <div class="center" style="top:1290px"><span class="h-bold" style="font-size:32px;letter-spacing:-1px">햇반 + <span style="color:var(--red)">햇뚜</span> + <span style="color:var(--red)">한알양념</span>이면 충분해요</span></div>
+  <div class="pill" style="left:110px;top:330px;color:#555;border-color:#999">기존 컵밥 6개</div>
+  <div class="center" style="top:1270px"><span class="h-bold" style="font-size:34px;letter-spacing:-1px">햇반 + <span style="color:var(--red)">햇뚜</span> + <span style="color:var(--red)">한알양념</span>이면 충분해요</span></div>
 </section>
 
 <!-- 11 사용법 -->
